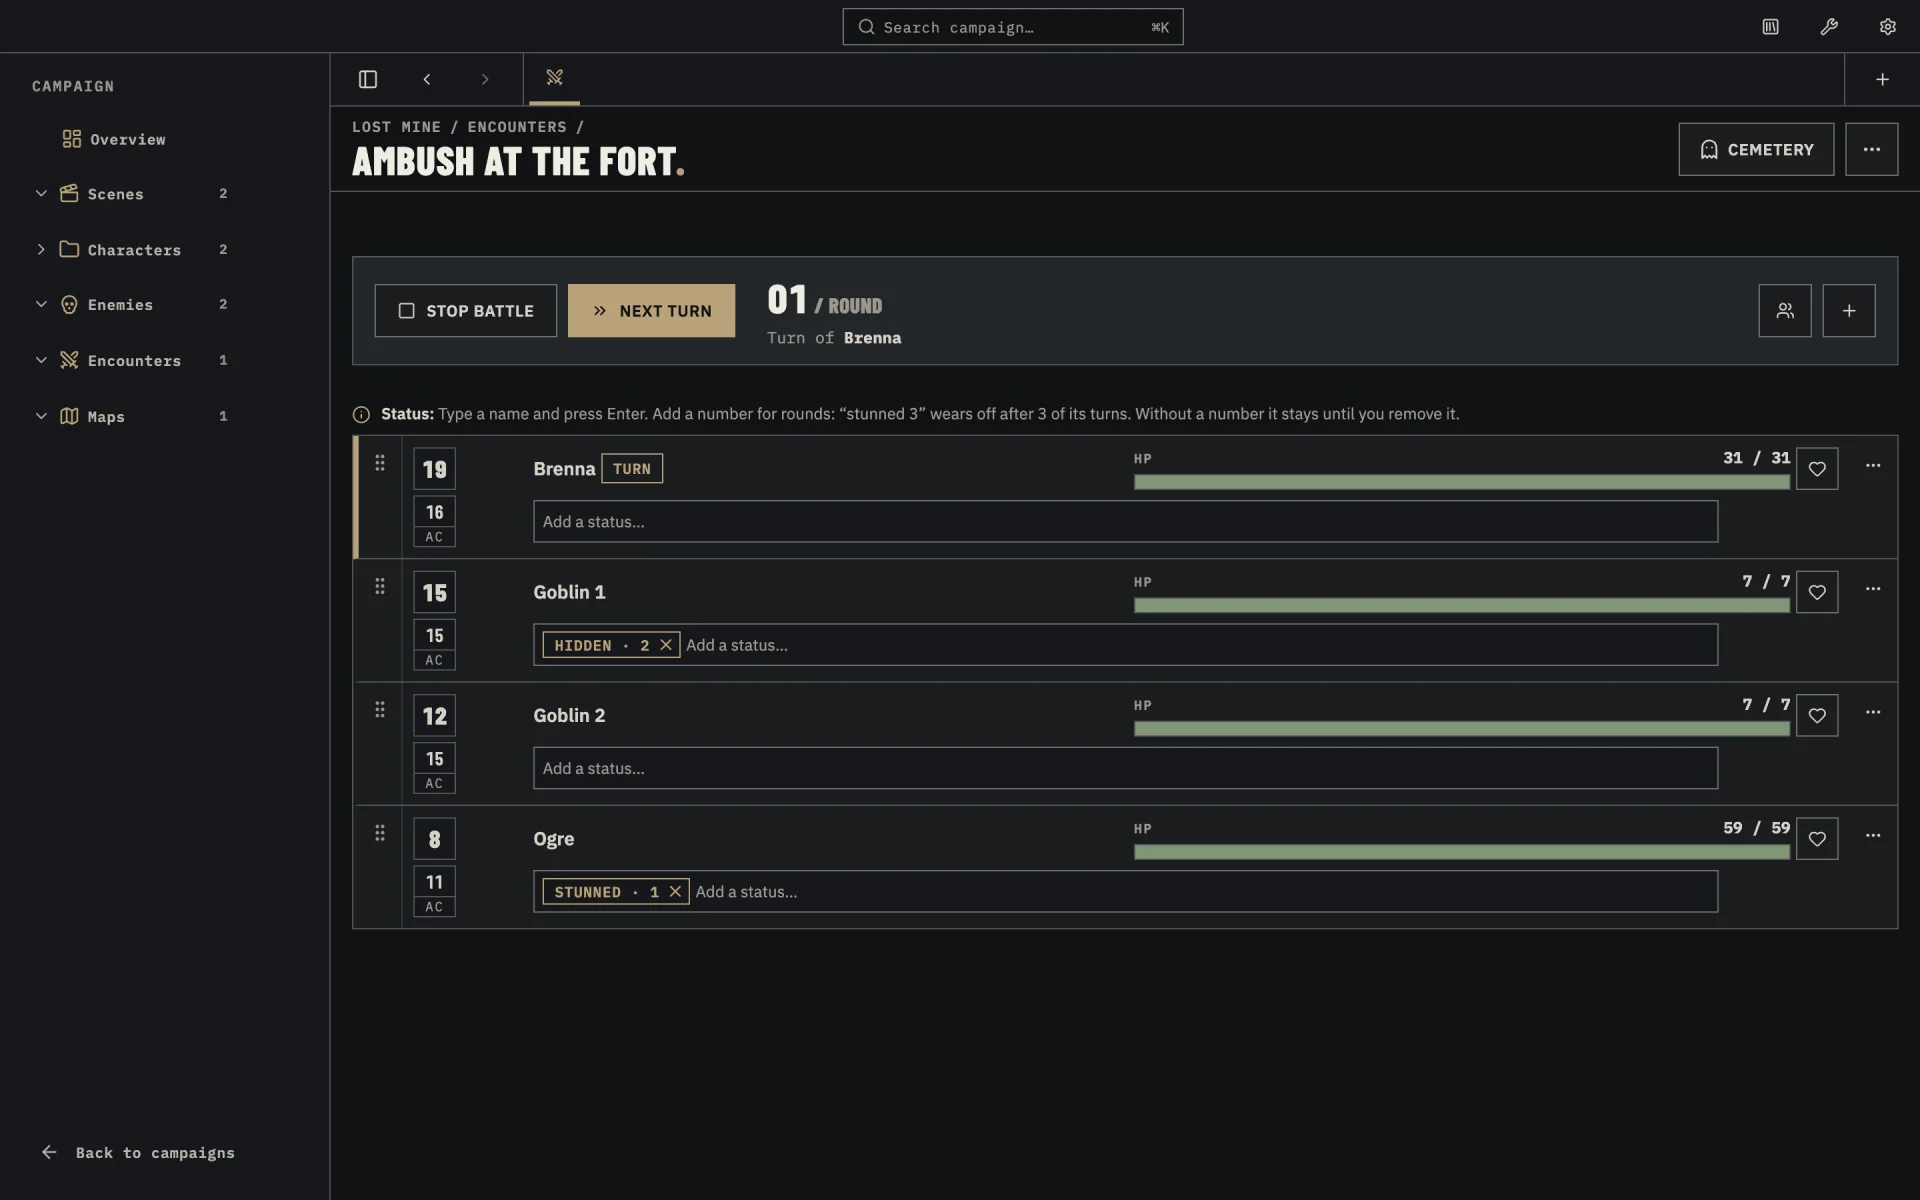
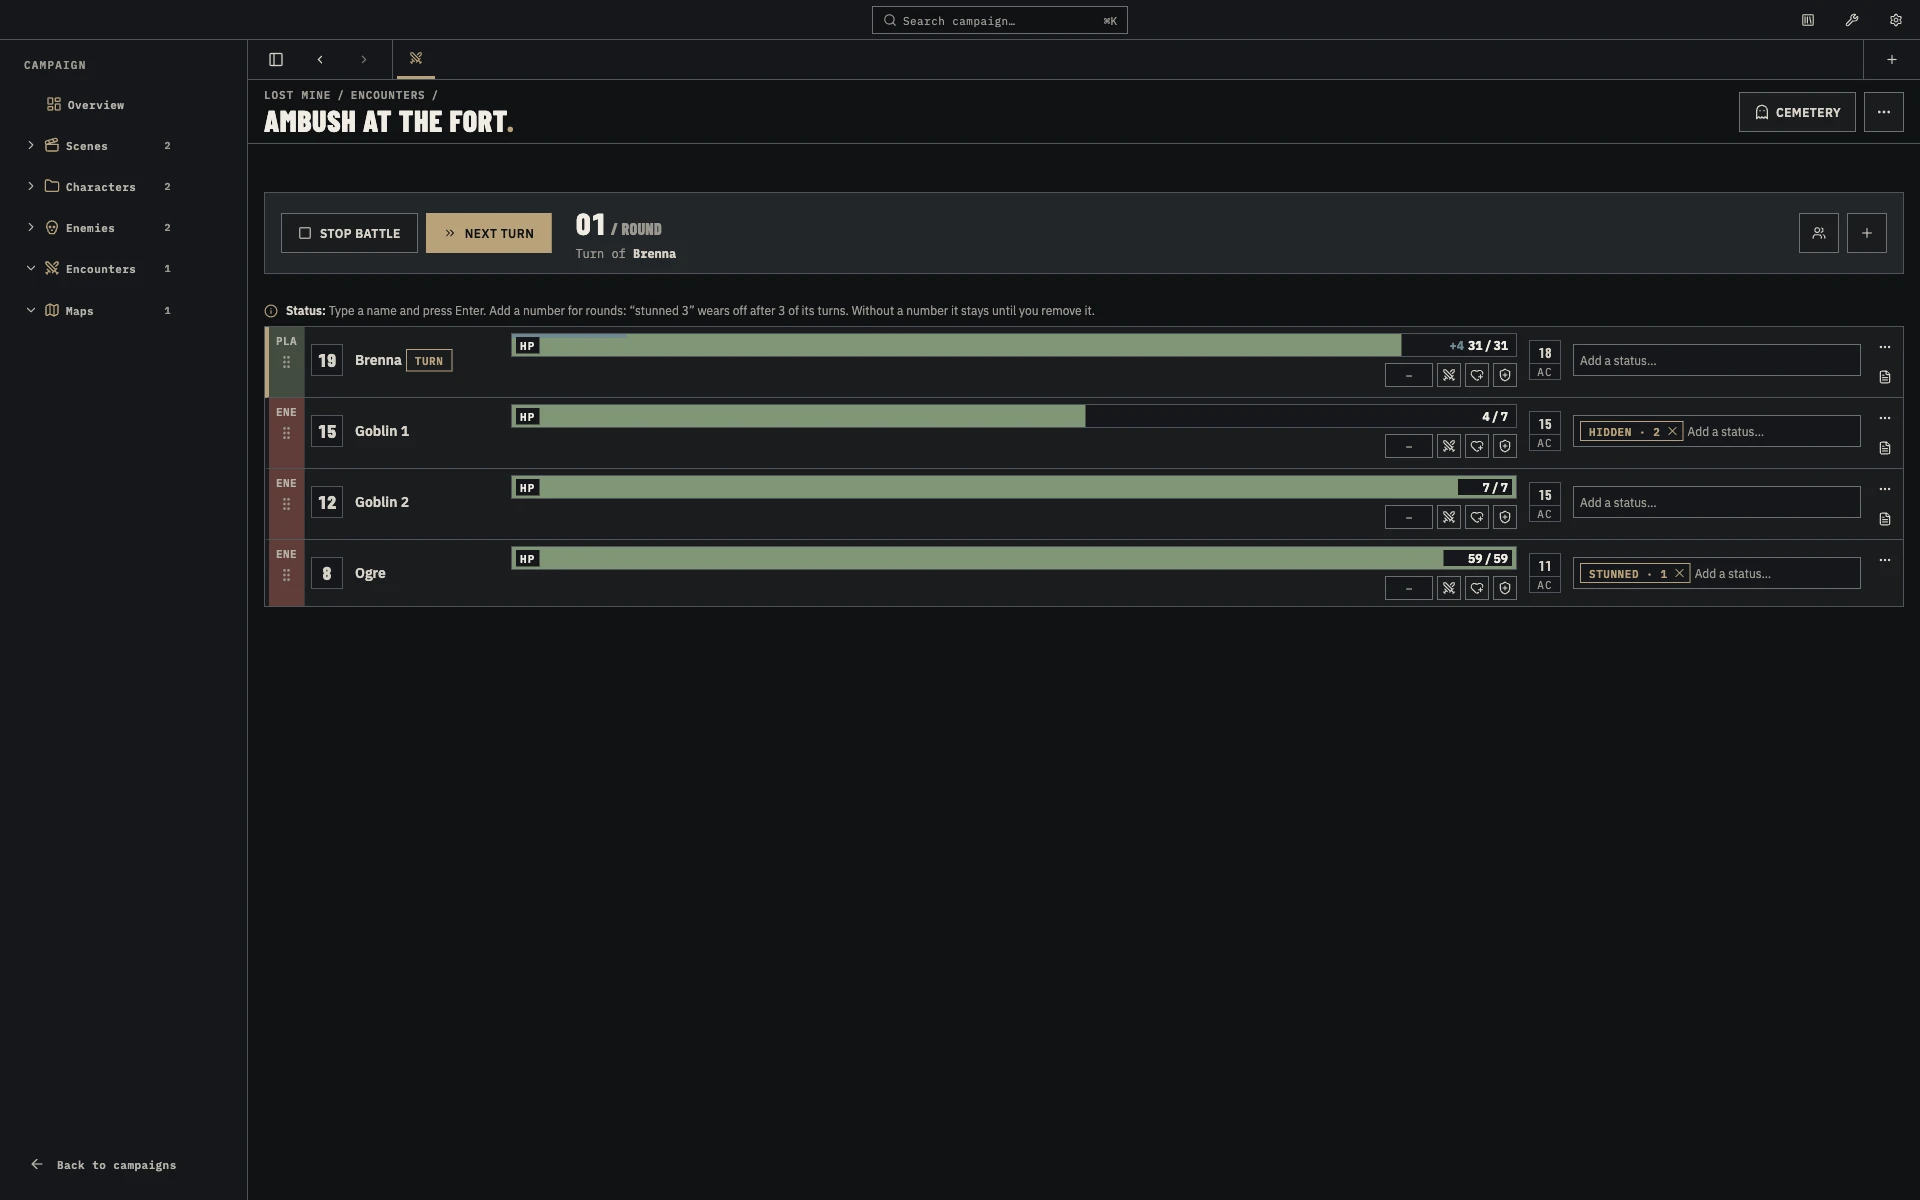
Onboarding, README and tracker screenshots: mention the campaign's game system; new compact tracker shots (D&D 5e layout)

diff --git a/README.md b/README.md
@@ -46,7 +46,8 @@ links to it. Before the session, **Review** shows you any broken links that need
   your own, and use sub-folders as sub-types.
 - **Editor** with Live preview, Source and Reading views, clickable `[[wikilinks]]`, tables edited in place, Info boxes,
   a Properties box and a right-click insert menu.
-- **Templates** give each kind of note a useful starting point, per note type and per campaign.
+- **Templates** give each kind of note a useful starting point, per note type and per campaign, and follow the campaign's
+  game system (D&D 5e and Pathfinder 2e come with the keys a table needs: AC, HP, saves, spell details).
 - **Links** shows what points to the open note and where that note leads next.
 - **Compendium** keeps shared systems and content ready to copy into any campaign.
 - **Assets**: paste or drop images, audio and PDFs into your notes. Audio plays inline and PDFs open in the system
@@ -60,12 +61,13 @@ through the turns while hit points, temporary hit points and timed statuses stay
 
 <picture>
   <source media="(prefers-color-scheme: dark)" srcset="docs/images/tracker-dark.webp" />
-  <img src="docs/images/tracker-light.webp" alt="The LazyDM encounter page: a battle bar with the round and the active turn, then Combatants in initiative order with HP bars and statuses." />
+  <img src="docs/images/tracker-light.webp" alt="The LazyDM encounter page: a battle bar with the round and the active turn, then compact Combatant rows in initiative order, each with its side, an HP bar with damage, heal and temporary HP buttons, AC and statuses." />
 </picture>
 
 - **Encounters** are `.json` files you link like any note (`![[ambush.json]]`).
-- **Tracker layouts** decide the details each Combatant row shows. Pick the built-in one for your game (Generic, D&D 5e,
-  Pathfinder 2e) and the row size, and see it on mock Combatants before the session.
+- **Tracker layouts** decide the details each Combatant row shows. Pick the game system when you create a campaign
+  (Generic, D&D 5e or Pathfinder 2e) and its layout and templates follow; change the layout or the row size later, and
+  see it on mock Combatants before the session.
 - **Battle bar** with Start battle, Stop battle and next turn, and the round and whose turn it is always visible.
 - **Cemetery** keeps defeated enemies in case they return, and a **party roster** can be added to any encounter.
 
